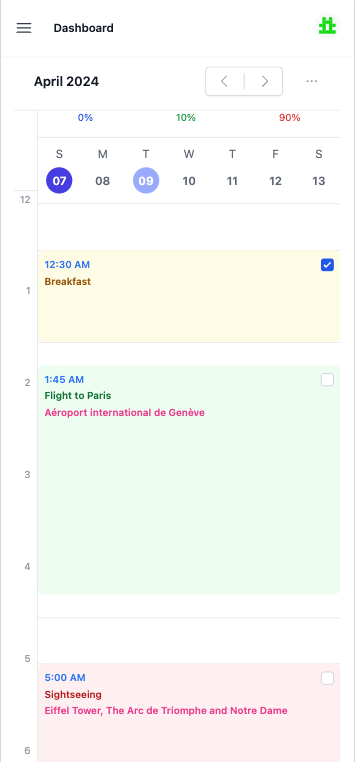
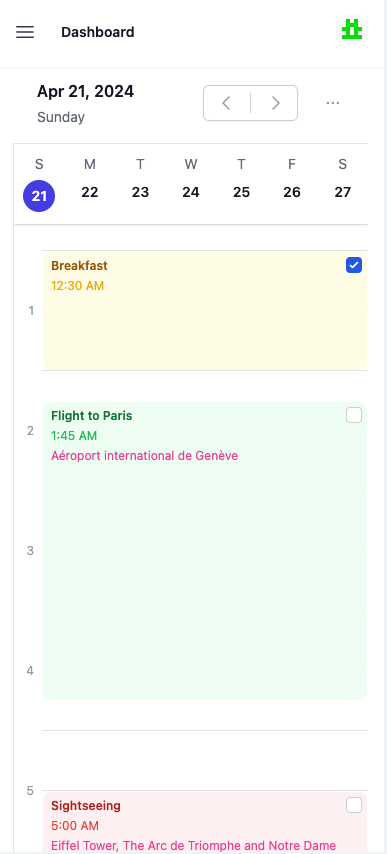
update design of life

diff --git a/src/routes/Life.svelte b/src/routes/Life.svelte
@@ -6,7 +6,7 @@
 	import OfflineIcon from '$lib/OfflineIcon.svelte';
 	import PhoneFrame from '$lib/PhoneFrame.svelte';
 	import PwaIcon from '$lib/PwaIcon.svelte';
-	import lifeDesktopImage from '$lib/assets/life-4.png';
+	import lifeDesktopImage from '$lib/assets/life-desktop.png';
 	import lifeMobileImage from '$lib/assets/life-mobile.png';
 	import { CalendarClock, Goal, PocketKnife } from '@steeze-ui/lucide-icons';
 	import { Icon, type IconSource } from '@steeze-ui/svelte-icon';
